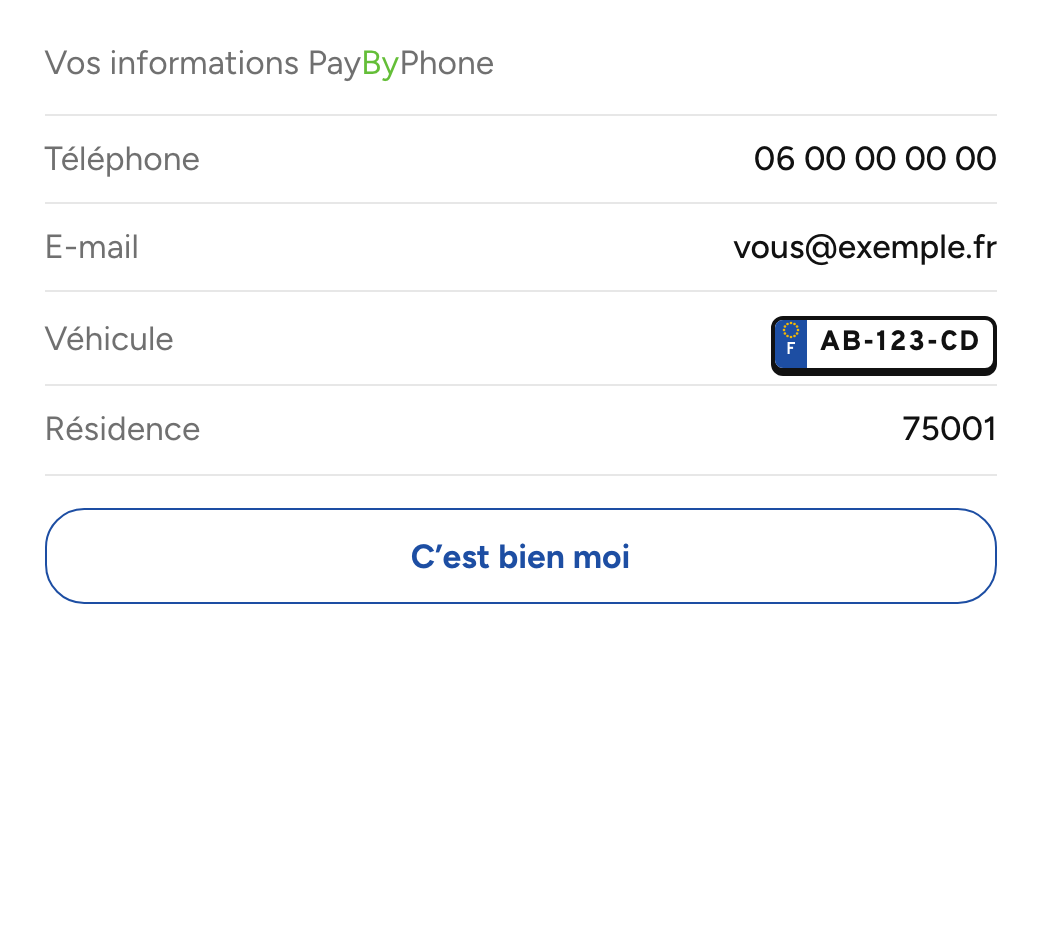
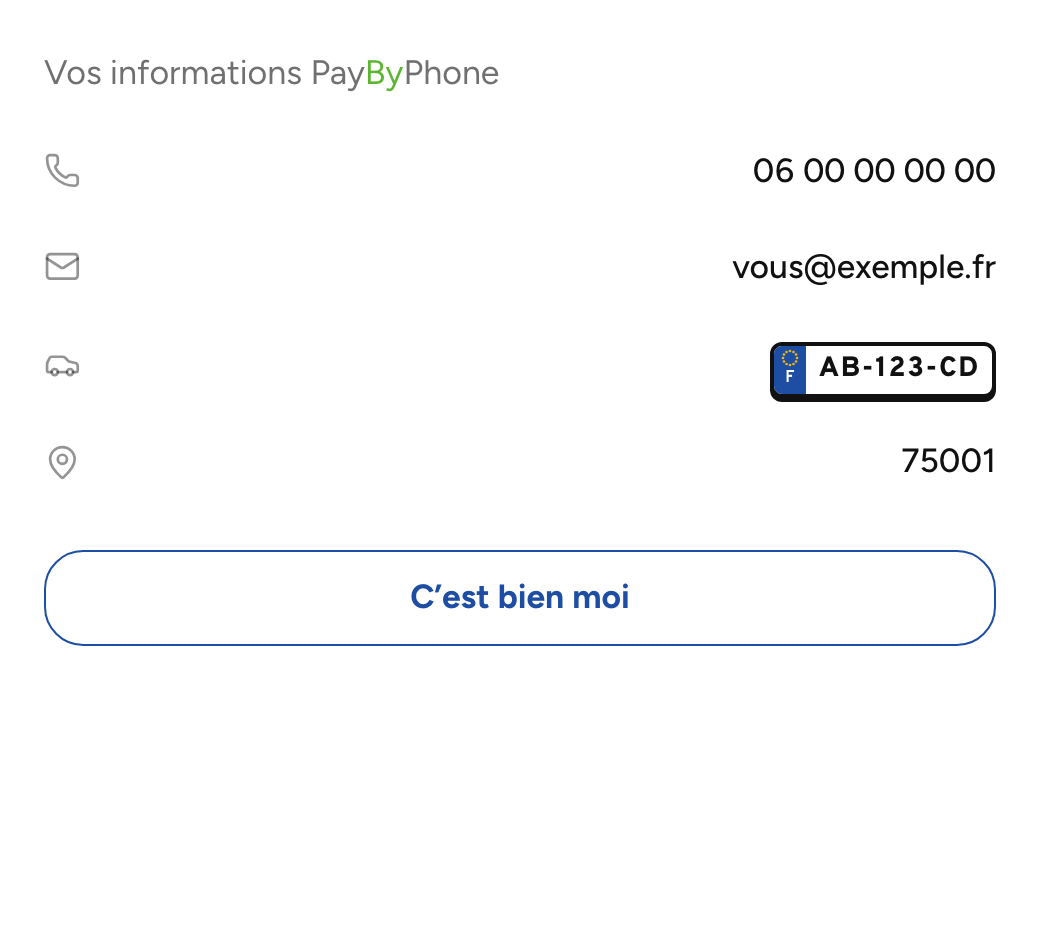
Étape Jours allégée (« Gratuit »), Sécurité connecté : « ← Mon espace » seul, images de Comment ça marche au design actuel

diff --git a/web/src/components/DailyTickets.tsx b/web/src/components/DailyTickets.tsx
@@ -1,5 +1,5 @@
 import { useEffect, useMemo, useRef, useState } from 'react'
-import { Car, Check, Loader2, Pencil, RotateCw } from 'lucide-react'
+import { Car, Loader2, Pencil, RotateCw } from 'lucide-react'
 import { toast } from 'sonner'
 import { Dialog, DialogContent, DialogDescription, DialogTitle } from '@/components/ui/dialog'
 import { NoPayment } from '@/components/NoPayment'
@@ -734,6 +734,7 @@ export function DailyWizard({
   const [cost, setCost] = useState<Money | null | undefined>(undefined)
   // No answer from PayByPhone (not a free ticket): « prix indisponible » with « Réessayer », never 0,00 €.
   const [costFailed, setCostFailed] = useState(false)
+  const free = cost !== undefined && !costFailed && !cost?.amount // e.g. the CMI-S day ticket: « Gratuit », not « 0,00 € »
   const [costTry, setCostTry] = useState(0)
   // The ticket now, not at the next window (5 h for CMI-S): the user sees at once that it works.
   const nowBox = today && (
@@ -1334,28 +1335,26 @@ export function DailyWizard({
                             aria-pressed={on}
                             onClick={() => setDays((list) => (list.includes(i) ? list.filter((x) => x !== i) : [...list, i].sort()))}
                             className={cn(
-                              'flex h-14 flex-col items-center justify-center gap-1 rounded-xl border text-sm transition',
-                              on ? 'border-[#4e9aa0] bg-[#4e9aa0]/[0.06] font-medium text-ink' : 'border-ink/15 text-ink/45 hover:border-ink/30',
+                              'flex h-11 items-center justify-center rounded-xl border text-sm transition',
+                              on ? 'border-[#4e9aa0] bg-[#4e9aa0]/[0.08] font-medium text-ink' : 'border-ink/15 text-ink/45 hover:border-ink/30',
                             )}
                           >
                             {d}
-                            <span className={cn('grid size-4 place-items-center rounded-full', on ? 'bg-[#4e9aa0] text-white' : 'border border-ink/20')}>
-                              {on && <Check className="size-3" strokeWidth={3} />}
-                            </span>
                           </button>
                         )
                       })}
                       {paris && (
-                        <div className="flex h-14 flex-col items-center justify-center gap-1 rounded-xl border border-dashed border-ink/10 text-sm text-ink/30">
+                        <div className="flex h-11 items-center justify-center rounded-xl border border-dashed border-ink/10 text-sm text-ink/30" title="Gratuit à Paris">
                           Dim
-                          <span className="text-[0.65rem] leading-none">gratuit</span>
                         </div>
                       )}
                     </div>
-                    {handi(effective) && paris && (
-                      <p className="mt-3 text-sm text-ink/60">Le ticket carte mobilité CMI-S d’une journée est pris automatiquement à 5 h, chaque jour choisi.</p>
+                    {/* One short line: when the ticket is taken (CMI-S) and the free days. */}
+                    {paris && (
+                      <p className="mt-2 text-sm text-ink/45">
+                        {handi(effective) ? 'Pris à 5 h. ' : ''}Dimanche et jours fériés gratuits.
+                      </p>
                     )}
-                    {paris && <p className="mt-2 text-sm text-ink/45">À Paris, le dimanche et les jours fériés sont gratuits : aucun ticket n’est pris.</p>}
                   </div>
                 )}
               </div>
@@ -1378,29 +1377,26 @@ export function DailyWizard({
                   <span className="text-ink/60">
                     {calendar
                       ? `Au total : ${count} ticket${count > 1 ? 's' : ''}${cost ? ` à ${euros(cost)}` : ''}`
-                      : `Par semaine (${days.length} jour${days.length > 1 ? 's' : ''})`}
+                      : free
+                        ? `Par semaine · ${days.length} ticket${days.length > 1 ? 's' : ''}`
+                        : `Par semaine · ${days.length} × ${cost === undefined ? '…' : euros(cost ?? { amount: 0, currency: 'EUR' })}`}
                   </span>
                   <span className="text-[0.95rem] font-semibold text-ink tabular-nums">
                     {cost === undefined ? (
                       <Loader2 className="inline size-4 animate-spin text-ink/45" />
+                    ) : free ? (
+                      'Gratuit'
                     ) : (
                       euros({ amount: (cost?.amount ?? 0) * count, currency: cost?.currency ?? 'EUR' })
                     )}
                   </span>
                 </div>
-                {/* On a specific date the ticket's price is already in the line above. */}
-                <div className={cn('mt-1 flex justify-between gap-4', calendar && 'hidden')}>
-                  <span className="text-ink/45">Prix d’un ticket</span>
-                  <span className="text-ink/60 tabular-nums">
-                    {/* No price from PayByPhone (a free ticket, e.g. Handi): 0 €, not a dash. */}
-                    {cost === undefined ? '…' : costFailed ? (
-                      <button onClick={() => setCostTry((n) => n + 1)} className={ui.link}>Prix indisponible · Réessayer</button>
-                    ) : euros(cost ?? { amount: 0, currency: 'EUR' })}
-                  </span>
-                </div>
+                {/* The ticket's price is in the line above (« 6 × 3,20 € »); unavailable, a retry. */}
+                {costFailed && (
+                  <button onClick={() => setCostTry((n) => n + 1)} className={cn('mt-1', ui.link)}>Prix indisponible · Réessayer</button>
+                )}
                 </>
                 )}
-                <p className={cn('mt-2 text-sm text-ink/45', calendar && 'hidden')}>{withPayByPhone('Payé à PayByPhone au tarif habituel, à chaque ticket.')}</p>
               </div>
             </>
           )}

diff --git a/web/src/components/Landing.tsx b/web/src/components/Landing.tsx
@@ -24,7 +24,7 @@ const FEATURES: Question[] = [
 const FEATURE_ICONS = [RefreshCw, Pause, BellRing, Headset]
 
 /** Each step's screen (demo account, captured at one size: 1040 × 940). */
-const STEP_SHOTS = ['/how/1-connexion.png?v=19', '/how/2-activation.png?v=19', '/how/3-tableau-de-bord.png?v=20']
+const STEP_SHOTS = ['/how/1-connexion.png?v=22', '/how/2-activation.png?v=22', '/how/3-tableau-de-bord.png?v=22']
 
 /**
  * Real users' feedback only, given with their consent: [first name and last-name initial, e.g. « Charles H. », one sentence].
@@ -168,9 +168,9 @@ function useShotScale(ref: RefObject<HTMLDivElement | null>) {
 }
 
 /** The real switch laid over the pictures of steps 2 and 3, at the same place and scale (the picture: a 520 × 470
- *  window, the switch 48 × 24 at 439, 239): off on step 2, it slides on as step 3 comes, and off again back on step 2.
+ *  window, the switch 48 × 24 at 439, 245): off on step 2, it slides on as step 3 comes, and off again back on step 2.
  *  Only a picture: not focusable, not read. */
-/** « C'est bien moi », laid over step 1's picture at its place (476 × 48 at 22, 254 in the 520-wide picture): pressed
+/** « C'est bien moi », laid over step 1's picture at its place (476 × 48 at 22, 275 in the 520-wide picture): pressed
  *  as step 2 is asked for (a light fill, a little smaller). Only a picture: not focusable, not read. */
 function ShotPress({ shown, pressed }: { shown: boolean; pressed: boolean }) {
   const ref = useRef<HTMLDivElement>(null)
@@ -182,7 +182,7 @@ function ShotPress({ shown, pressed }: { shown: boolean; pressed: boolean }) {
       inert
       className={cn('pointer-events-none absolute origin-top-left bg-white transition-opacity duration-300', shown ? 'opacity-100' : 'opacity-0')}
       // 3 px wider all round than the picture's button, so none of it shows while pressed.
-      style={{ top: 251 * scale, left: 19 * scale, width: 482, height: 54, padding: 3, transform: `scale(${scale})` }}
+      style={{ top: 272 * scale, left: 19 * scale, width: 482, height: 54, padding: 3, transform: `scale(${scale})` }}
     >
       <div
         className={cn(
@@ -206,7 +206,7 @@ function ShotSwitch({ shown, on }: { shown: boolean; on: boolean }) {
       inert
       // Placed from the picture's width (it is shown from its top, at full width, whatever the frame's height).
       className={cn('pointer-events-none absolute origin-top-left rounded-full bg-white transition-opacity duration-300', shown ? 'opacity-100' : 'opacity-0')}
-      style={{ top: 239 * scale, left: 439 * scale, transform: `scale(${scale})` }}
+      style={{ top: 245 * scale, left: 439 * scale, transform: `scale(${scale})` }}
     >
       <ToggleSwitch checked={on} label="" onPress={() => {}} />
     </div>

diff --git a/web/e2e/journeys.spec.ts b/web/e2e/journeys.spec.ts
@@ -351,8 +351,7 @@ test('programmer un ticket : le type de véhicule choisit le tarif visiteur', as
   await page.getByRole('option', { name: /Paris/ }).first().click()
   await page.getByRole('button', { name: 'Suivant' }).click()
   // Straight to the days: the heavy visitor rate, 6 hours in Paris at three times the light price.
-  await expect(page.getByText('Prix d’un ticket')).toBeVisible()
-  await expect(page.getByText('72,00 €').first()).toBeVisible()
+  await expect(page.getByText(/Par semaine · \d+ × 72,00/)).toBeVisible()
 })
 
 test('impasses : une zone sans ticket visiteur le dit, au lieu d’une question vide', async ({ page }) => {
@@ -407,7 +406,7 @@ test('programmer un ticket : carte mobilité CMI-S, « Tous » coche tout Paris'
   await expect(page.getByRole('button', { name: 'Suivant' })).toBeDisabled() // the card attestation first
   await page.getByRole('checkbox', { name: /titulaire/ }).check()
   await page.getByRole('button', { name: 'Suivant' }).click()
-  await expect(page.getByText(/ticket carte mobilité CMI-S d’une journée/)).toBeVisible()
+  await expect(page.getByText('Pris à 5 h. Dimanche et jours fériés gratuits.')).toBeVisible()
 })
 
 test('programmer un ticket CMI-S : gratuit, 0,00 € (jamais « prix indisponible »)', async ({ page }) => {
@@ -420,7 +419,7 @@ test('programmer un ticket CMI-S : gratuit, 0,00 € (jamais « prix indisponibl
   await page.getByRole('checkbox', { name: 'Tous' }).check()
   await page.getByRole('checkbox', { name: /titulaire/ }).check()
   await page.getByRole('button', { name: 'Suivant' }).click()
-  await expect(page.getByText(/0,00/).first()).toBeVisible()
+  await expect(page.getByText('Gratuit', { exact: true })).toBeVisible()
   await expect(page.getByText(/Prix indisponible/)).toHaveCount(0)
 })
 
@@ -689,7 +688,7 @@ test('carte bancaire qui expire ce mois-ci : bannière rouge, partie avec une ca
   await expect(page.getByRole('alert').filter({ hasText: 'expire ce mois-ci' })).toBeVisible()
   validUntil = later // renewed in PayByPhone: the next refresh drops the banner
   await page.reload()
-  await expect(page.getByText(/^(Véhicules|Autres véhicules|Tickets? en cours)$/).first()).toBeVisible() // the page is there
+  await expect(page.getByText(/^(Programmer un ticket|Autres véhicules|Tickets? en cours)$/).first()).toBeVisible() // the page is there
   await expect(page.getByRole('alert').filter({ hasText: 'expire ce mois-ci' })).toHaveCount(0)
 })
 

diff --git a/web/src/components/SecurityPage.tsx b/web/src/components/SecurityPage.tsx
@@ -1,8 +1,8 @@
 import { ui } from '@/lib/styles'
 import type { ReactNode } from 'react'
-import { Building2, KeyRound, Lock, ShieldCheck } from 'lucide-react'
+import { ArrowLeft, Building2, KeyRound, Lock, ShieldCheck } from 'lucide-react'
 import { HostedFooter } from '@/components/Footer'
-import { LEGAL_UPDATED, Mailto, PUBLISHER } from '@/components/Legal'
+import { LEGAL_UPDATED, legalBack, Mailto, PUBLISHER } from '@/components/Legal'
 import { PublicTopBar } from '@/components/TopBar'
 
 const PRACTICE = [
@@ -47,8 +47,15 @@ const SUBPROCESSORS = [
 export function SecurityPage({ hosted, signedIn = false }: { hosted: boolean; signedIn?: boolean }) {
   return (
     <div className="flex min-h-dvh flex-col bg-background text-ink">
-      <PublicTopBar signedIn={signedIn} />
-      <main className="mx-auto w-full max-w-[40rem] flex-1 px-6 pt-16 pb-20 sm:pt-20">
+      {/* Signed in (from the dashboard's footer): one way back, « ← Mon espace », as on the legal pages. */}
+      {signedIn ? (
+        <a href={legalBack(true).href} className="inline-flex items-center gap-1.5 self-start px-4 pt-5 text-[0.95rem] text-ink hover:text-ink/60 sm:px-6">
+          <ArrowLeft className="size-4" strokeWidth={1.75} /> {legalBack(true).label}
+        </a>
+      ) : (
+        <PublicTopBar />
+      )}
+      <main className={`mx-auto w-full max-w-[40rem] flex-1 px-6 pb-20 ${signedIn ? 'pt-9' : 'pt-16 sm:pt-20'}`}>
         <h1 className={ui.title}>Sécurité et données</h1>
         <p className={ui.subtitle}>
           Votre mot de passe n’est jamais stocké. Vos données sont chiffrées, hébergées à Paris, et effacées dès que vous
